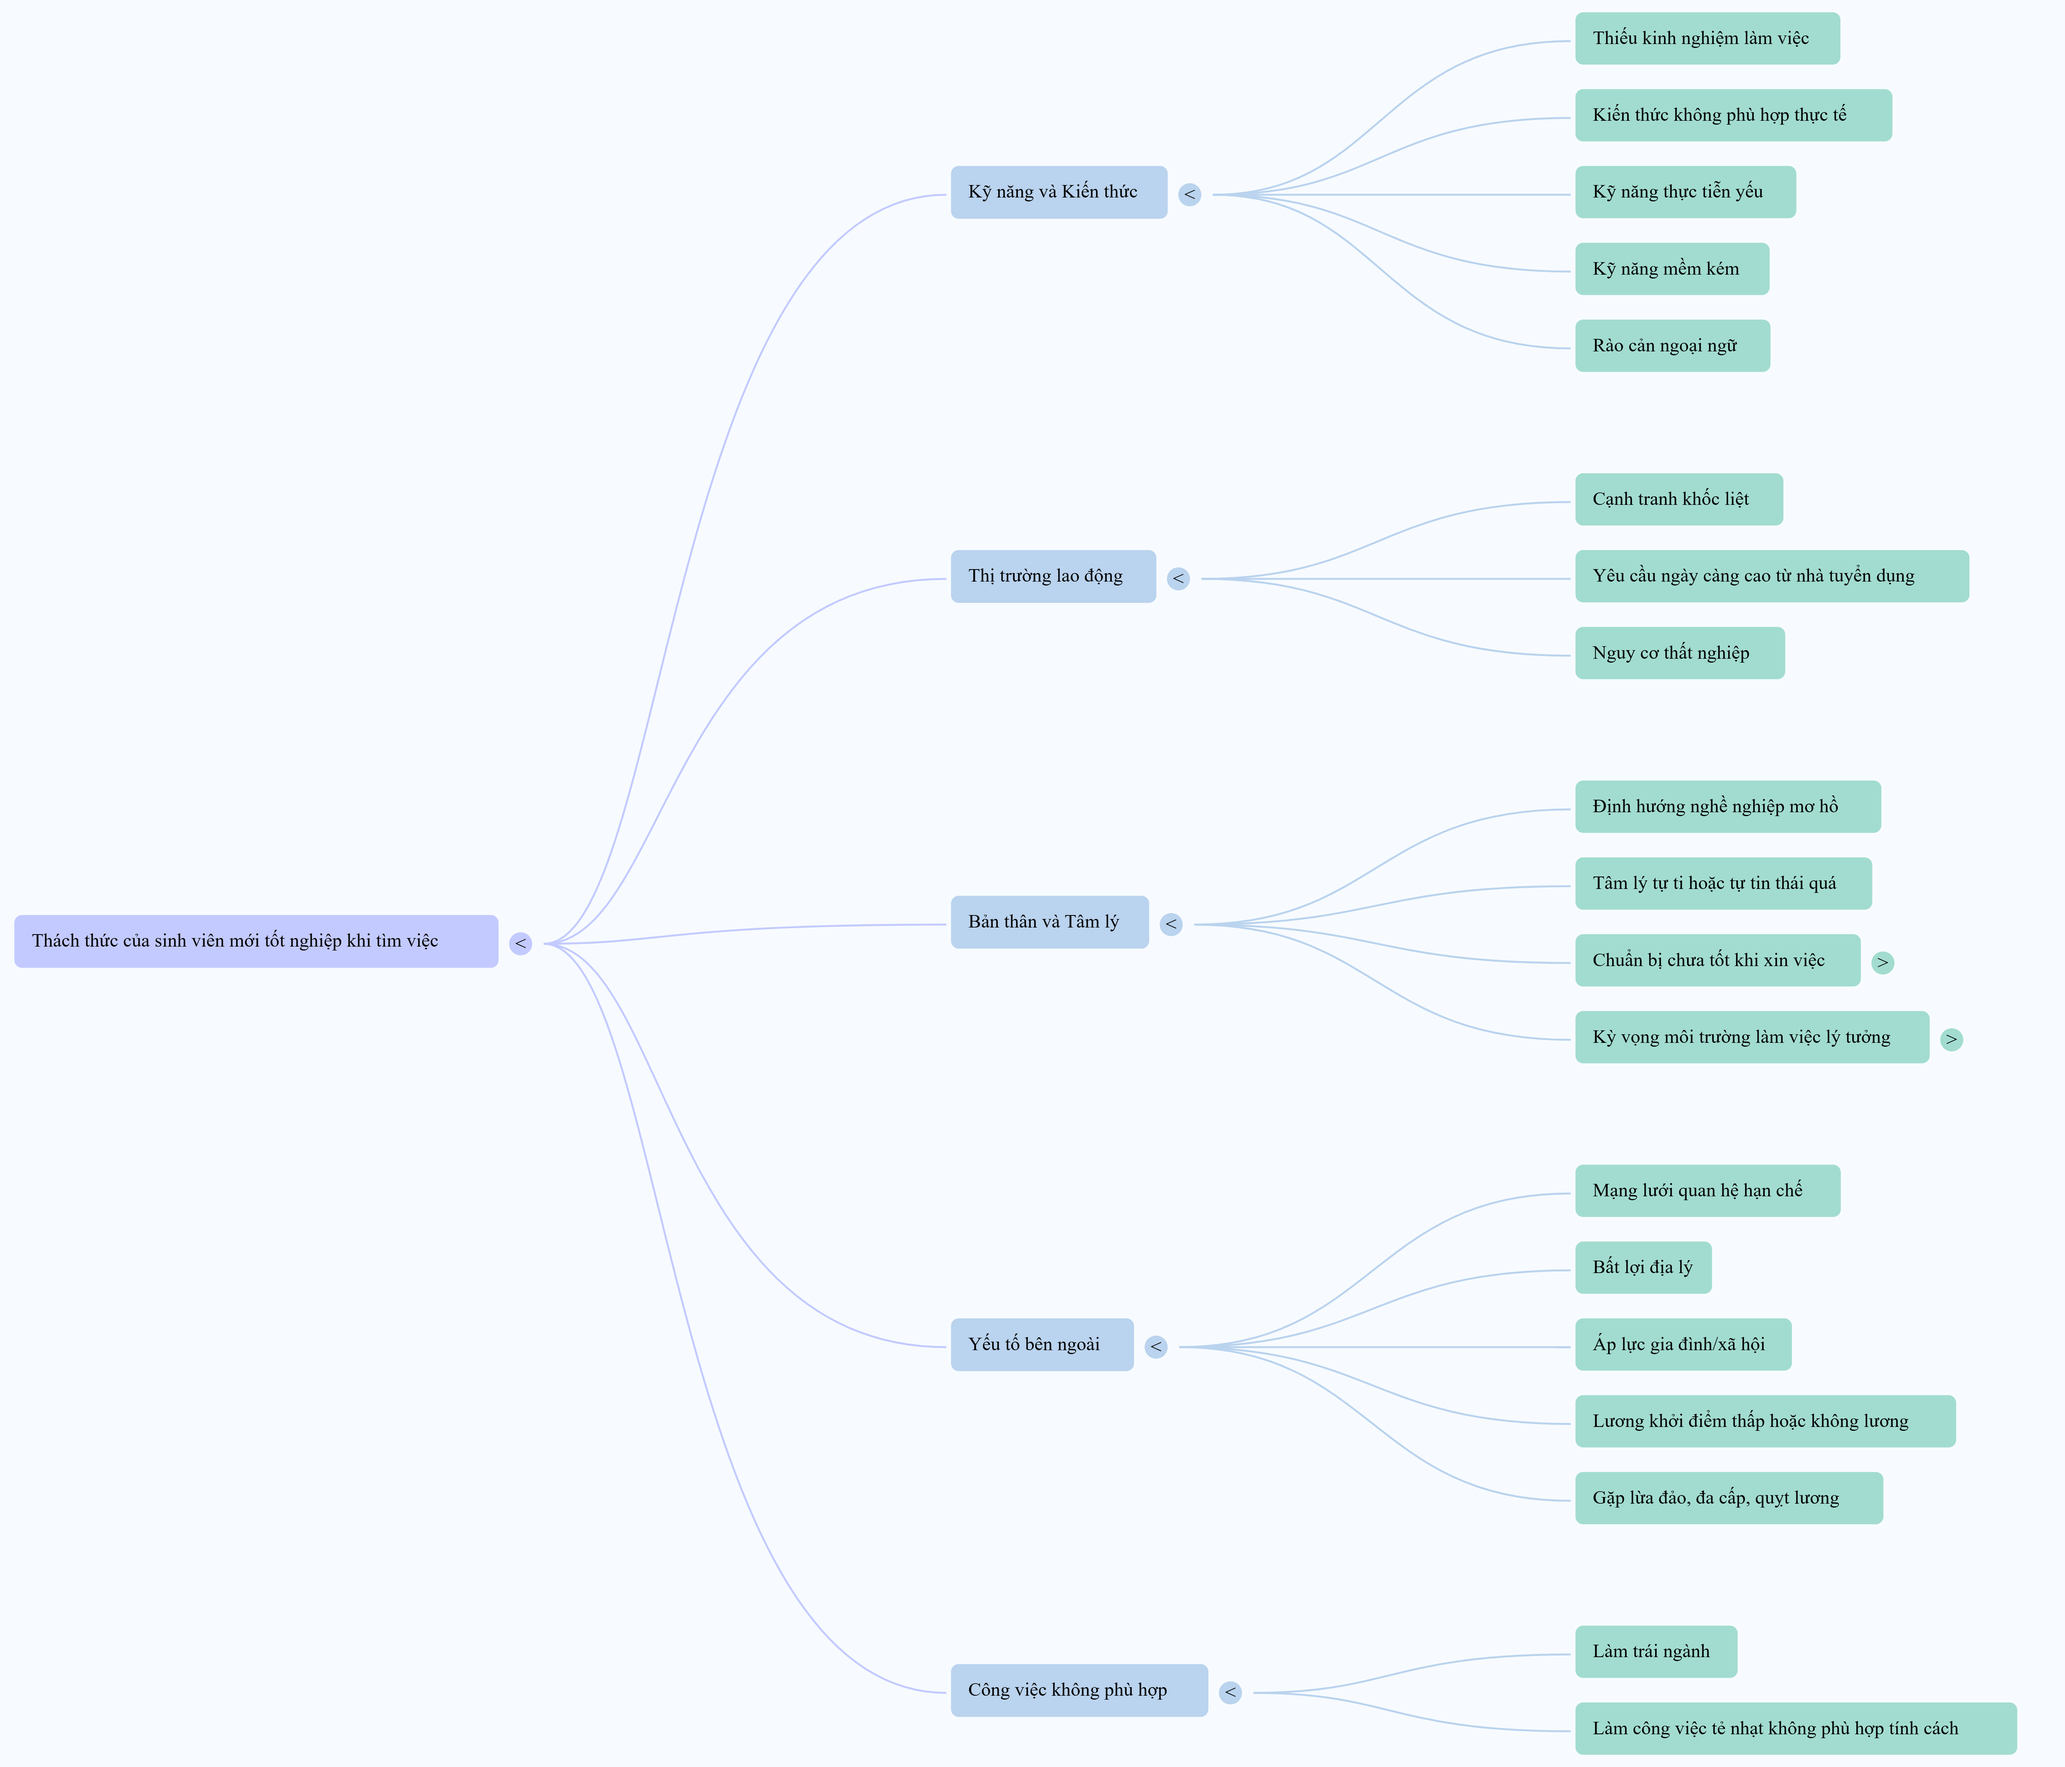
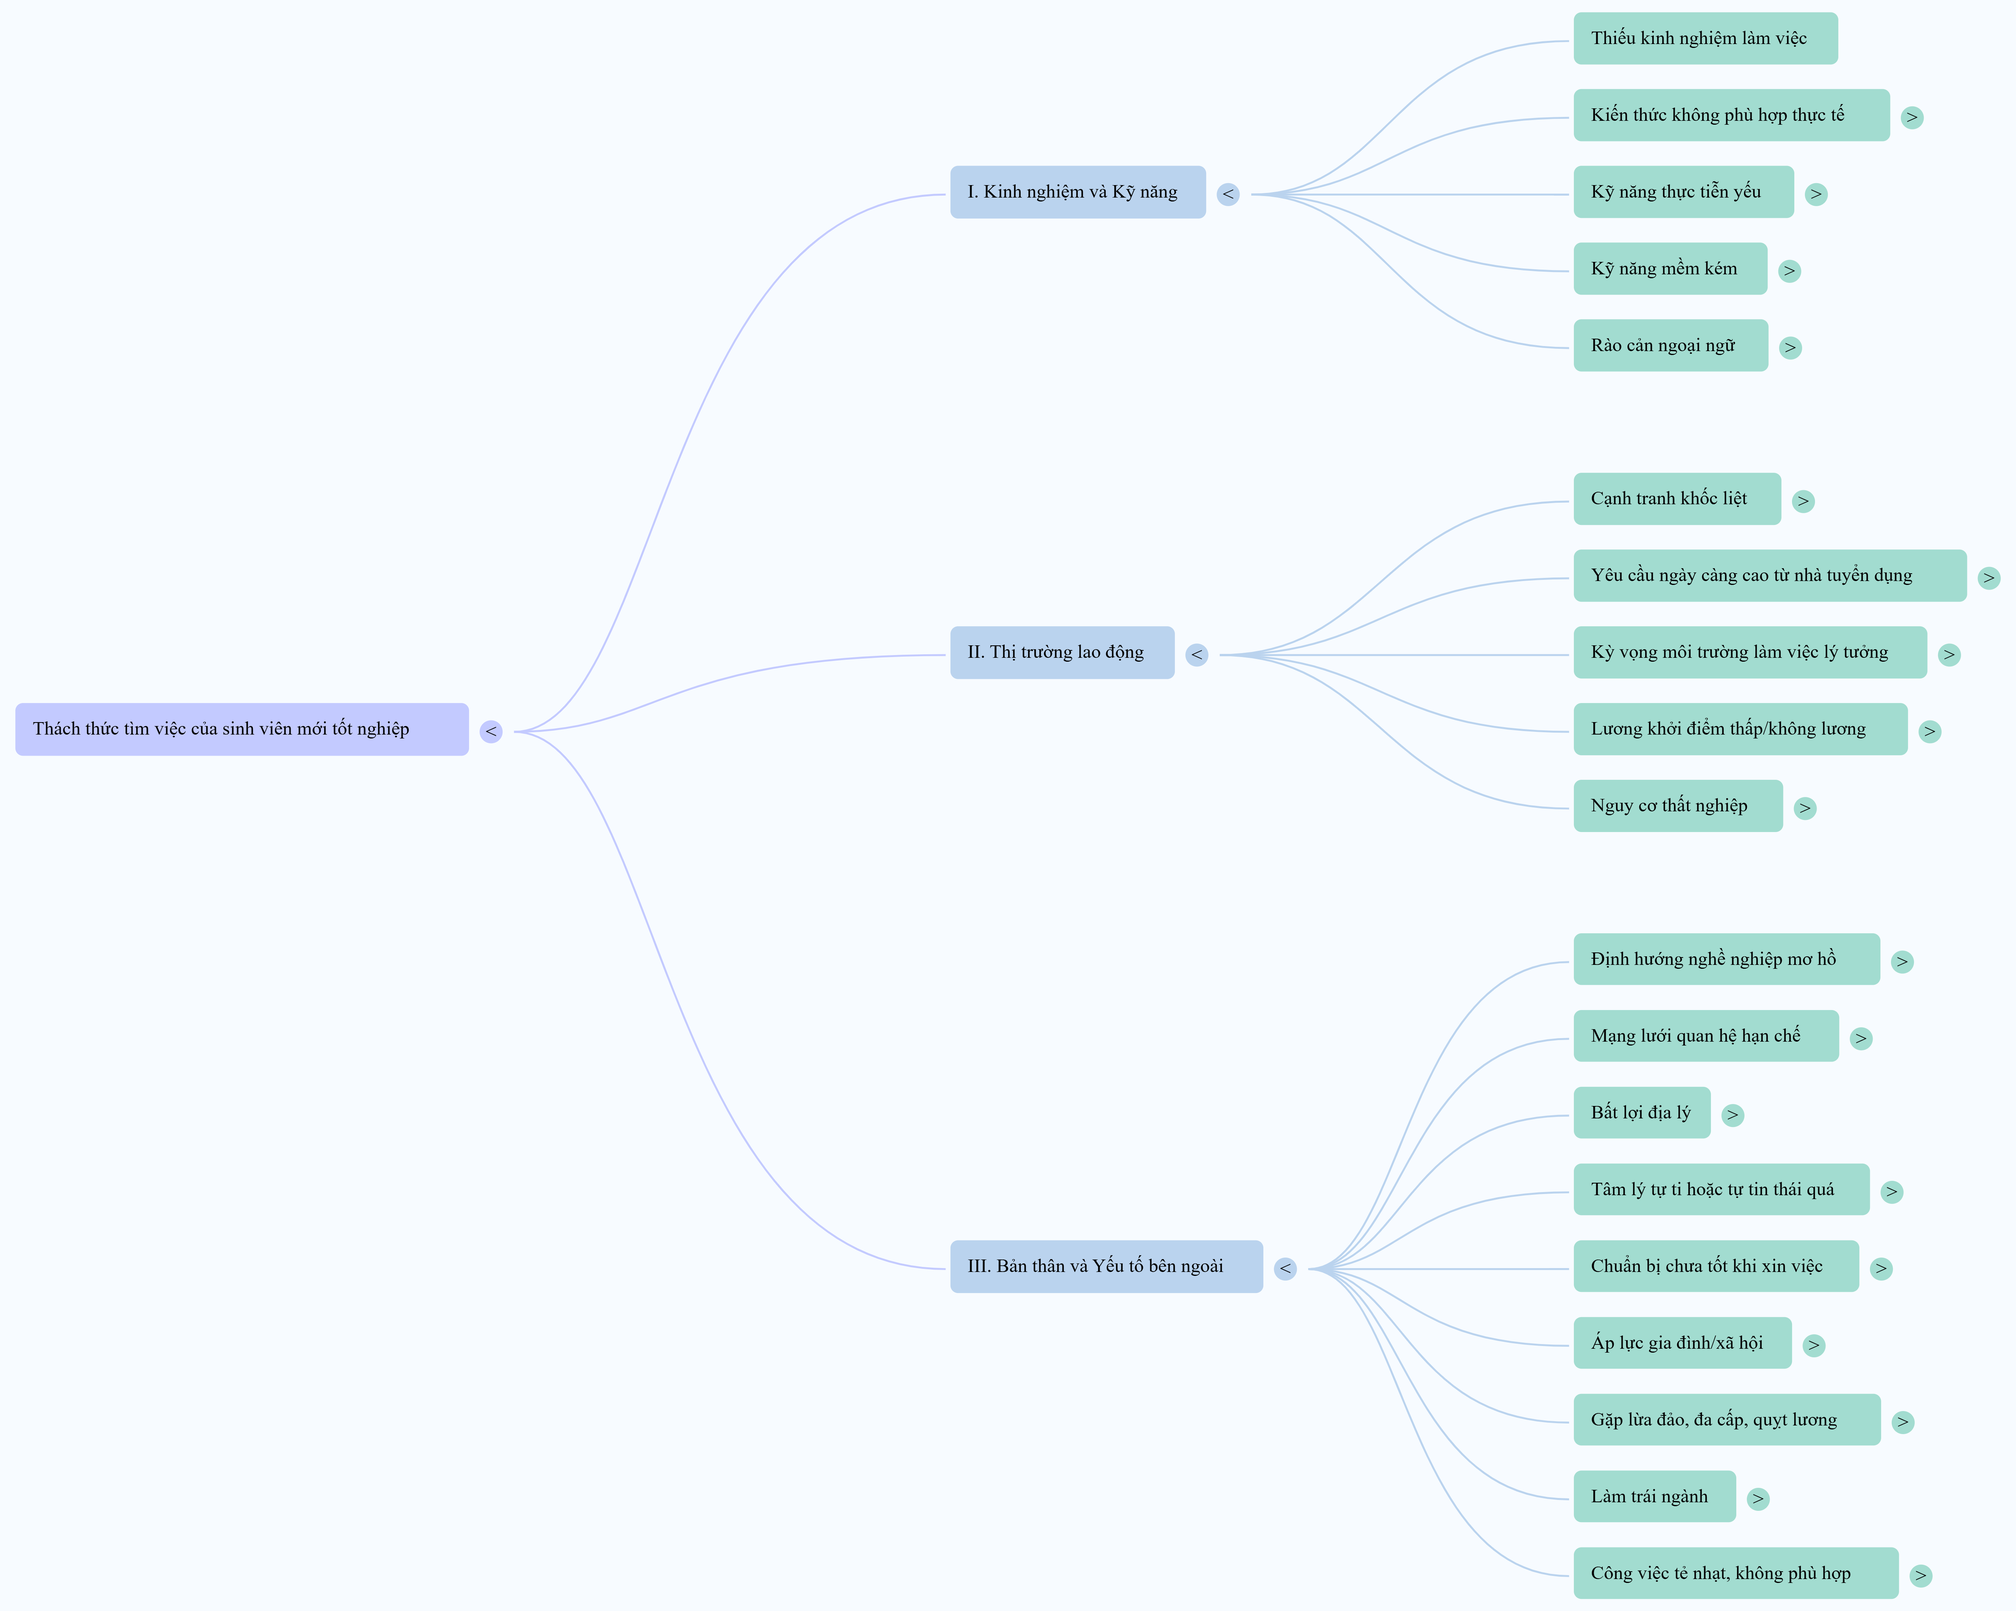
Update fresh-graduates.png

diff --git a/content/blog/fresh-graduates.vi.md b/content/blog/fresh-graduates.vi.md
@@ -12,7 +12,7 @@ excludeSearch: false
 draft: false
 ---
 
-![Fresh Graduates](/images/2025/woman-wearing-regalia-holding-her-degree-graduation.jpg)
+![Mind map](/images/2025/fresh-graduates.png)
 
 Tìm được một công việc tốt là mong muốn của tất cả mọi người.
 Tuy nhiên, thị trường lao động ngày càng cạnh tranh đặt ra không ít khó khăn cho các tân cử nhân Việt Nam trên hành trình tìm kiếm việc làm đầu tiên.
@@ -79,7 +79,7 @@ Còn nhiều và rất nhiều các công ty trong và ngoài nước yêu cầu
 4. Vietcombank yêu cầu đầu vào 650 TOEIC trở lên – vì thế mà lương + thưởng của VCB cao hơn các ngân hàng khác.
 5. FPT yêu cầu nhân viên phải đạt 500 TOEIC tiếng Anh mới đủ điều kiện làm việc. Một số vị trí yêu cầu mức điểm trên 800 TOEIC.
 6. Vietnam Airlines yêu cầu 400 TOEIC đầu vào cho các vị trí. Sinh viên thi tuyển làm phi công cũng cần số điểm là 400 TOEIC đầu vào.
-7. VNext Software (một công ty Nhật Bản) yêu cầu TOEIC 850+ cho vị trí Accountant, HR, Admin.
+7. VNext Software (một công ty Nhật Bản) yêu cầu TOEIC > 850 cho vị trí Accountant, HR, Admin.
 8. Samsung yêu cầu bài thi GSAT và TOEIC đầu vào. Nhân viên R&D của Samsung yêu cầu phải có 530 TOEIC. 
 9. Fujitsu yêu cầu 730 TOEIC cho nhân viên thường xuyên phải sử dụng tiếng Anh, 600 TOEIC cho Engineer, Researcher, Planner, Sales personnel; 500 TOEIC đối với các vị trí khác.
 10. Đối với Packard Bell (Pháp), Kỹ sư Kiểm soát Chất lượng cần đạt 650 TOEIC, Cán bộ Mua hàng cần đạt 850 TOEIC.
@@ -159,7 +159,7 @@ Và để đón nhận những thách thức như vậy bạn cần nên trang b
 #### 🧭 11. Định hướng nghề nghiệp mơ hồ
 
 Bạn đã hướng nghiệp không phù hợp để rồi dẫn đến việc lựa chọn sai ngành học.
-Tại thị trường Việt Nam, thường có tới 40% việc định hướng nghề nghiệp phụ thuộc vào phụ huynh.
+Tại thị trường Việt Nam, việc định hướng nghề nghiệp phụ thuộc vào phụ huynh.
 Các bậc cha mẹ vẫn thường thiên về những ngành nghề an toàn hoặc ổn định cho con.
 Khi định hướng, họ hướng con cái theo nghề họ thích mà không biết khả năng, sở thích của con nằm ở đâu. 
 
@@ -291,6 +291,9 @@ Dù không nhất thiết phải bắt đầu với công việc lý tưởng, n
 - Chứng minh năng lực qua portfolio/dự án cá nhân
 - Xây dựng thương hiệu cá nhân trên LinkedIn, Facebook, Youtube, Tiktok
 - Làm remote cho công ty nước ngoài
+
+
+![Fresh Graduates](/images/2025/woman-wearing-regalia-holding-her-degree-graduation.jpg)
 
 Hãy theo dõi và xem bài viết sau để đi tìm cách thức khắc phục các vấn đề này.
 
